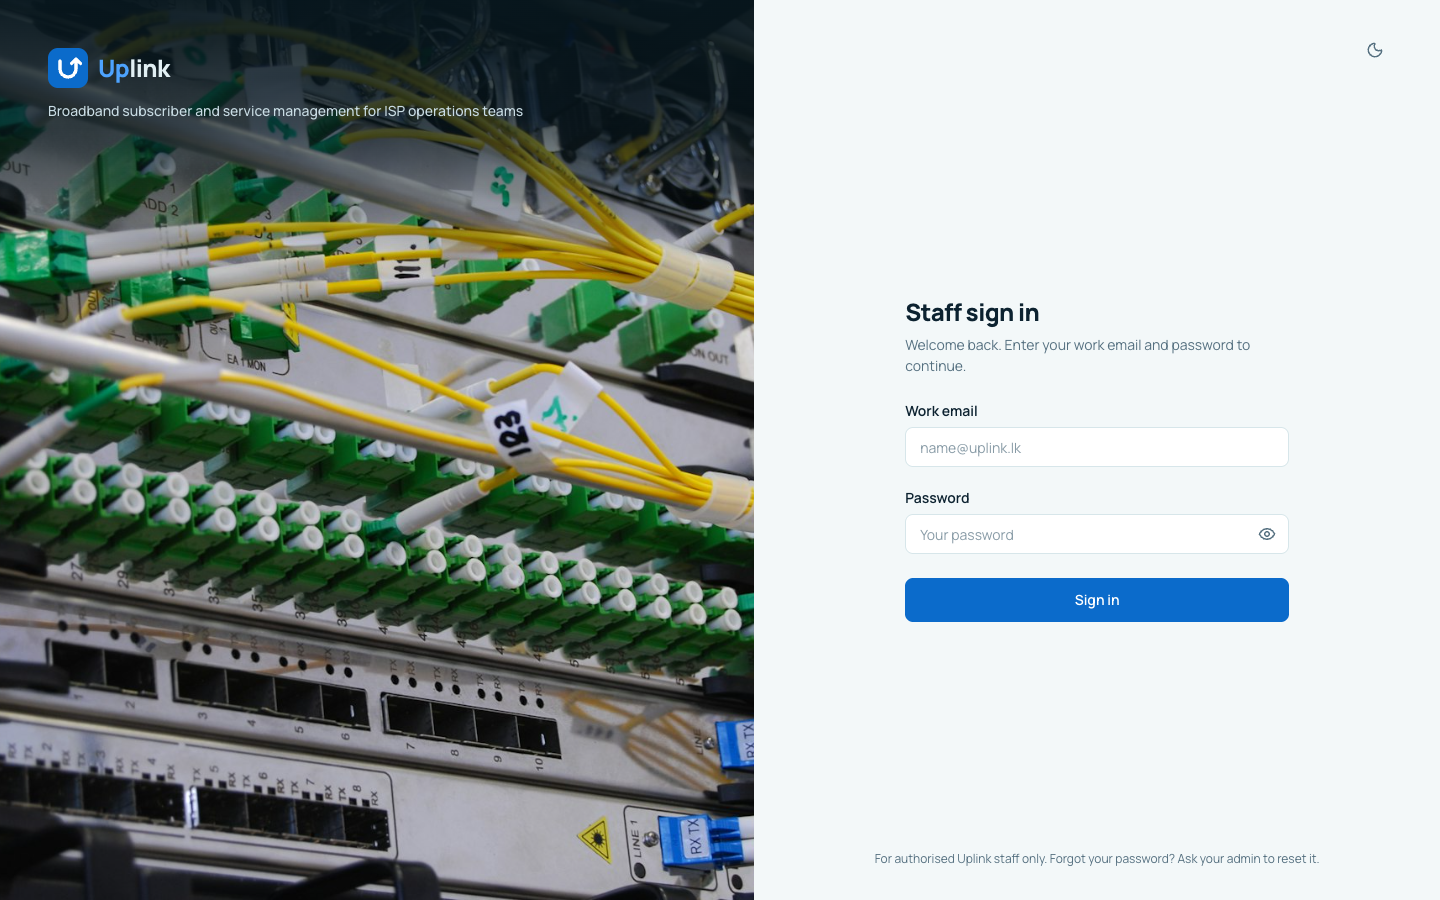
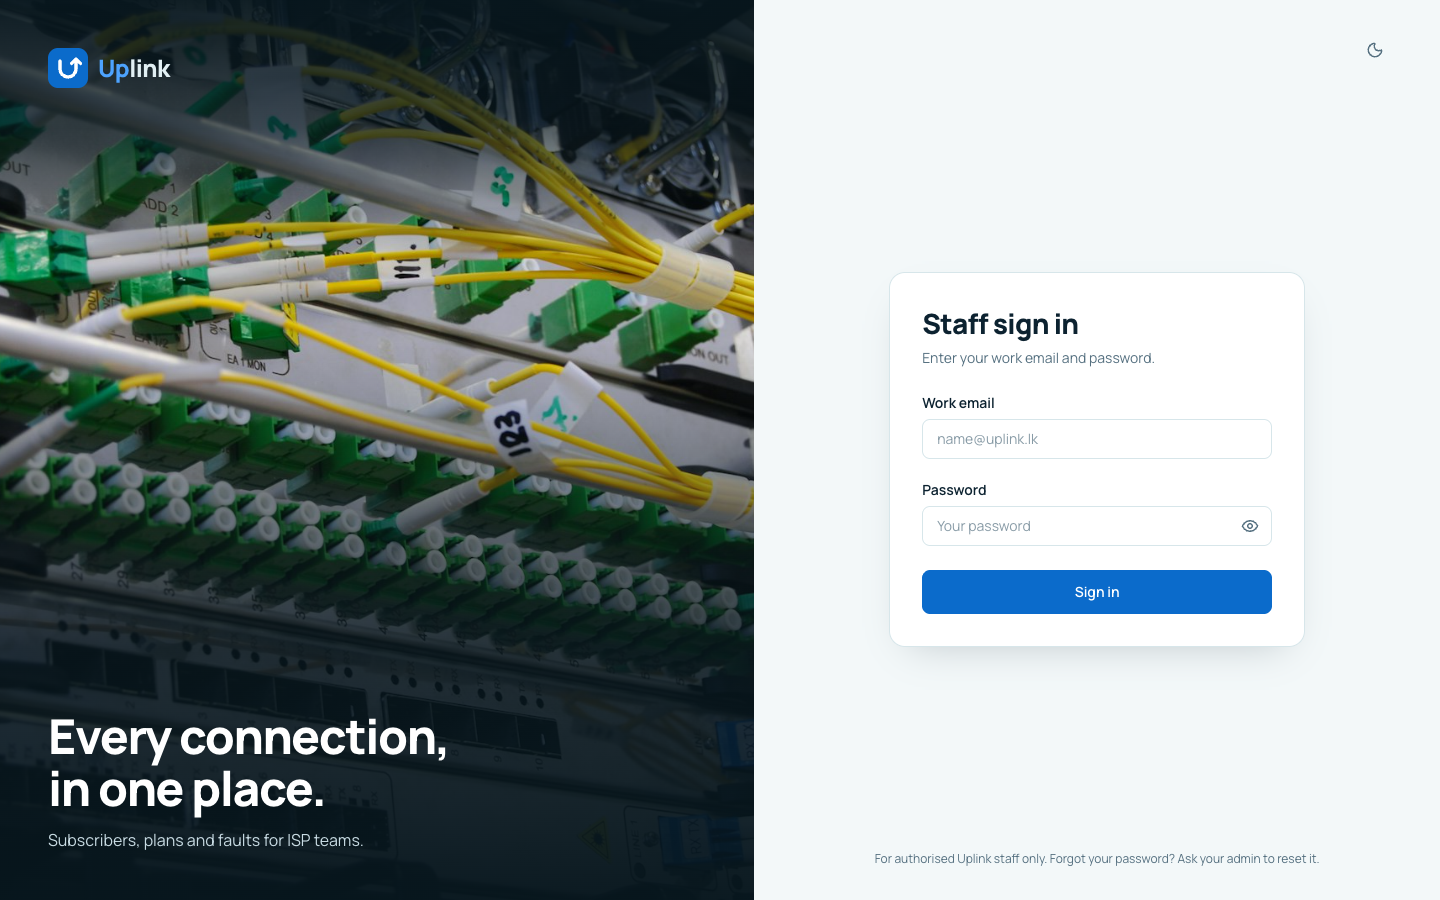
Improve dashboard and sign-in page

diff --git a/client/src/pages/DashboardPage.jsx b/client/src/pages/DashboardPage.jsx
@@ -11,6 +11,8 @@ import { age } from '../utils/time';
 import StatCard from '../components/ui/StatCard';
 import Badge from '../components/ui/Badge';
 import BarList from '../components/charts/BarList';
+import ColumnChart from '../components/charts/ColumnChart';
+import StatusBar from '../components/charts/StatusBar';
 import SubscriptionDrawer from '../features/subscriptions/SubscriptionDrawer';
 import TicketDrawer from '../features/tickets/TicketDrawer';
 
@@ -95,19 +97,22 @@ export default function DashboardPage() {
             />
           </div>
 
-          <div className="grid gap-4 lg:grid-cols-3">
+          <div className="grid grid-cols-1 gap-4 lg:grid-cols-3">
             <Panel title="New connections per month" link={{ to: '/subscriptions', label: 'Subscriptions' }} className="lg:col-span-2">
-              <BarList
+              <ColumnChart
                 unit="new orders"
-                items={d.months.map((m) => ({
-                  label: new Date(`${m.month}-01T00:00:00`).toLocaleDateString('en-GB', { month: 'short', year: 'numeric' }),
-                  value: m.total,
-                }))}
+                items={d.months.map((m) => {
+                  const date = new Date(`${m.month}-01T00:00:00`);
+                  return {
+                    label: date.toLocaleDateString('en-GB', { month: 'short' }).slice(0, 3),
+                    title: date.toLocaleDateString('en-GB', { month: 'short', year: 'numeric' }),
+                    value: m.total,
+                  };
+                })}
               />
             </Panel>
             <Panel title="Subscriptions by status">
-              <BarList
-                unit="subscriptions"
+              <StatusBar
                 items={[
                   { label: 'Active', value: s.Active || 0, color: 'rgb(var(--ok))' },
                   { label: 'Pending', value: s.Pending || 0, color: 'rgb(var(--warn))' },
@@ -118,7 +123,7 @@ export default function DashboardPage() {
             </Panel>
           </div>
 
-          <div className="grid gap-4 lg:grid-cols-3">
+          <div className="grid grid-cols-1 gap-4 lg:grid-cols-3">
             <Panel title="Most popular plans" link={{ to: '/plans', label: 'Catalogue' }}>
               <BarList unit="subscribers" items={d.topPlans.map((p) => ({ label: p.name, sub: p.technology, value: p.total }))} />
             </Panel>

diff --git a/client/src/styles/charts.css b/client/src/styles/charts.css
@@ -44,3 +44,84 @@
   font-weight: 600;
   font-variant-numeric: tabular-nums;
 }
+
+/* Upright bars */
+.column-chart {
+  display: flex;
+  gap: 0.375rem;
+  padding-top: 1.25rem;
+}
+.column-chart__item {
+  flex: 1;
+  min-width: 0;
+  text-align: center;
+}
+.column-chart__track {
+  display: flex;
+  align-items: flex-end;
+  height: 11rem;
+  border-bottom: 1px solid rgb(var(--line));
+}
+.column-chart__bar {
+  position: relative;
+  width: 100%;
+  min-height: 2px;
+  border-radius: 3px 3px 0 0;
+  background: rgb(var(--primary));
+}
+.column-chart__value {
+  position: absolute;
+  bottom: 100%;
+  left: 0;
+  right: 0;
+  padding-bottom: 0.125rem;
+  font-family: var(--font-mono);
+  font-size: 0.75rem;
+  font-weight: 600;
+}
+.column-chart__label {
+  display: block;
+  margin-top: 0.375rem;
+  font-size: 0.6875rem;
+  color: rgb(var(--muted));
+}
+/* Phones show every second month */
+@media (max-width: 480px) {
+  .column-chart__item:nth-child(even) .column-chart__label {
+    visibility: hidden;
+  }
+}
+
+/* Status share bar */
+.status-bar {
+  display: flex;
+  flex-direction: column;
+  gap: 1.25rem;
+}
+.status-bar__track {
+  display: flex;
+  gap: 2px;
+  height: 0.875rem;
+  overflow: hidden;
+  border-radius: 4px;
+}
+.status-bar__list {
+  display: flex;
+  flex-direction: column;
+  gap: 1rem;
+  font-size: 0.875rem;
+}
+.status-bar__row {
+  display: flex;
+  align-items: center;
+  gap: 0.625rem;
+}
+.status-bar__dot {
+  width: 0.625rem;
+  height: 0.625rem;
+  border-radius: 2px;
+}
+.status-bar__value {
+  font-family: var(--font-mono);
+  font-weight: 600;
+}

diff --git a/client/src/styles/auth.css b/client/src/styles/auth.css
@@ -1,4 +1,4 @@
-/* Sign-in and request access: photo left, form right */
+/* Sign-in page: photo left, form right */
 .auth-shell {
   display: grid;
   min-height: 100vh;
@@ -40,10 +40,31 @@
 .auth-photo__name span {
   color: #4da3ff;
 }
-.auth-photo__line {
-  margin-top: 0.75rem;
-  font-size: 0.875rem;
-  font-weight: 500;
+/* Dark fade so the headline stays readable */
+.auth-photo__fade-bottom {
+  position: absolute;
+  left: 0;
+  right: 0;
+  bottom: 0;
+  height: 62%;
+  background: linear-gradient(to top, rgb(7 22 29 / 0.97), rgb(7 22 29 / 0.82) 45%, transparent);
+}
+.auth-photo__hero {
+  position: absolute;
+  left: 3rem;
+  right: 3rem;
+  bottom: 3rem;
+}
+.auth-photo__hero h2 {
+  font-size: 3rem;
+  line-height: 1.08;
+  font-weight: 800;
+  letter-spacing: -0.03em;
+  color: #fff;
+}
+.auth-photo__hero p {
+  margin-top: 0.875rem;
+  font-size: 1rem;
   color: #c9dce4;
 }
 .auth-panel {
@@ -58,9 +79,13 @@
 }
 .auth-panel__body {
   width: 100%;
-  max-width: 24rem;
+  max-width: 26rem;
   margin: auto;
-  padding: 2.5rem 0;
+  padding: 2rem;
+  border: 1px solid rgb(var(--line));
+  border-radius: 1rem;
+  background: rgb(var(--surface));
+  box-shadow: 0 16px 40px -20px rgb(12 34 48 / 0.25);
 }
 .auth-panel__foot {
   text-align: center;
@@ -68,8 +93,8 @@
   color: rgb(var(--muted));
 }
 .auth-title {
-  font-size: 1.5rem;
-  line-height: 2rem;
+  font-size: 1.75rem;
+  line-height: 2.25rem;
   font-weight: 800;
   letter-spacing: -0.025em;
 }

diff --git a/client/src/features/subscriptions/SubscriptionsPage.jsx b/client/src/features/subscriptions/SubscriptionsPage.jsx
@@ -21,7 +21,7 @@ import SubscriptionDrawer from './SubscriptionDrawer';
 const SORT_OPTIONS = [
   { value: 'newest', label: 'Newest first' },
   { value: 'oldest', label: 'Oldest first' },
-  { value: 'account', label: 'Account number' },
+  { value: 'account', label: 'Subscription number' },
   { value: 'installed', label: 'Recently installed' },
 ];
 
@@ -96,7 +96,7 @@ export default function SubscriptionsPage() {
       </div>
 
       <div className="flex flex-wrap items-center gap-2">
-        <SearchInput id="sub-search" value={search} onChange={setSearch} placeholder="Account, router, name, NIC or mobile" />
+        <SearchInput id="sub-search" value={search} onChange={setSearch} placeholder="Subscription, router, name, NIC or mobile" />
         <SelectFilter id="sub-plan-filter" label="Plan" value={plan} onChange={setPlan}
           options={[{ value: '', label: 'All plans' }, ...plans.map((p) => ({ value: p._id, label: p.name }))]} />
         <SelectFilter id="sub-district-filter" label="District" value={district} onChange={setDistrict}

diff --git a/client/src/components/charts/StatusBar.jsx b/client/src/components/charts/StatusBar.jsx
@@ -1,0 +1,22 @@
+// One bar split by share of the total, with counts below
+export default function StatusBar({ items }) {
+  const total = items.reduce((sum, item) => sum + item.value, 0);
+  return (
+    <div className="status-bar">
+      <div className="status-bar__track">
+        {items.map((item) => (
+          <span key={item.label} title={`${item.label}: ${item.value}`} style={{ width: `${total ? (item.value / total) * 100 : 0}%`, background: item.color }} />
+        ))}
+      </div>
+      <ul className="status-bar__list">
+        {items.map((item) => (
+          <li key={item.label} className="status-bar__row">
+            <span className="status-bar__dot" style={{ background: item.color }} />
+            <span className="flex-1">{item.label}</span>
+            <span className="status-bar__value">{item.value}</span>
+          </li>
+        ))}
+      </ul>
+    </div>
+  );
+}

diff --git a/client/src/components/charts/BarList.jsx b/client/src/components/charts/BarList.jsx
@@ -1,4 +1,4 @@
-// Horizontal bars, each item can set its own colour
+// Ranked horizontal bars, one colour
 export default function BarList({ items, unit = '' }) {
   const max = Math.max(1, ...items.map((i) => i.value));
   return (
@@ -10,7 +10,7 @@ export default function BarList({ items, unit = '' }) {
             {item.sub && <span className="bar-list__sub">{item.sub}</span>}
           </span>
           <span className="bar-list__track">
-            <span className="bar-list__fill" style={{ width: `${(item.value / max) * 100}%`, background: item.color }} />
+            <span className="bar-list__fill" style={{ width: `${(item.value / max) * 100}%` }} />
           </span>
           <span className="bar-list__value">{item.value}</span>
         </li>

diff --git a/client/src/components/charts/ColumnChart.jsx b/client/src/components/charts/ColumnChart.jsx
@@ -1,0 +1,18 @@
+// Upright bars: the biggest value is full height
+export default function ColumnChart({ items, unit = '' }) {
+  const max = Math.max(1, ...items.map((i) => i.value));
+  return (
+    <ul className="column-chart">
+      {items.map((item) => (
+        <li key={item.title} className="column-chart__item" title={`${item.title}: ${item.value} ${unit}`}>
+          <span className="column-chart__track">
+            <span className="column-chart__bar" style={{ height: `${(item.value / max) * 100}%` }}>
+              <span className="column-chart__value">{item.value}</span>
+            </span>
+          </span>
+          <span className="column-chart__label">{item.label}</span>
+        </li>
+      ))}
+    </ul>
+  );
+}

diff --git a/client/src/components/ui/UsageBar.jsx b/client/src/components/ui/UsageBar.jsx
@@ -8,7 +8,7 @@ export default function UsageBar({ used = 0, cap = 0, large = false, installed =
   return (
     <div className={`usage ${large ? 'usage--large' : ''} ${high ? 'usage--high' : ''}`}>
       <div className="usage__track">
-        {cap > 0 && <div className="usage__fill" style={{ width: `${pct}%` }} />}
+        {cap > 0 ? <div className="usage__fill" style={{ width: `${pct}%` }} /> : <div className="usage__fill usage__fill--unlimited" />}
       </div>
       <span className="usage__text">{cap ? `${used} of ${cap} GB · ${pct}%` : `${used} GB used · unlimited`}</span>
     </div>

diff --git a/client/src/components/auth/AuthShell.jsx b/client/src/components/auth/AuthShell.jsx
@@ -14,7 +14,11 @@ export default function AuthShell({ children, footer }) {
             <LogoMark className="h-10 w-10" />
             <span className="auth-photo__name"><span>Up</span>link</span>
           </span>
-          <p className="auth-photo__line">Broadband subscriber and service management for ISP operations teams</p>
+        </div>
+        <div className="auth-photo__fade-bottom" />
+        <div className="auth-photo__hero">
+          <h2>Every connection,<br />in one place.</h2>
+          <p>Subscribers, plans and faults for ISP teams.</p>
         </div>
       </section>
 

diff --git a/client/src/pages/LoginPage.jsx b/client/src/pages/LoginPage.jsx
@@ -55,7 +55,7 @@ export default function LoginPage() {
   return (
     <AuthShell footer="For authorised Uplink staff only. Forgot your password? Ask your admin to reset it.">
       <h1 className="auth-title">Staff sign in</h1>
-      <p className="auth-text">Welcome back. Enter your work email and password to continue.</p>
+      <p className="auth-text">Enter your work email and password.</p>
 
       {serverError && (
         <div role="alert" className="form-alert mt-6">

diff --git a/client/src/styles/data.css b/client/src/styles/data.css
@@ -199,6 +199,11 @@
 .usage--high .usage__fill {
   background: rgb(var(--warn));
 }
+/* Unlimited plans: full bar in light teal */
+.usage__fill--unlimited {
+  width: 100%;
+  background: rgb(var(--accent) / 0.35);
+}
 .usage__text {
   font-size: 0.75rem;
   color: rgb(var(--muted));
